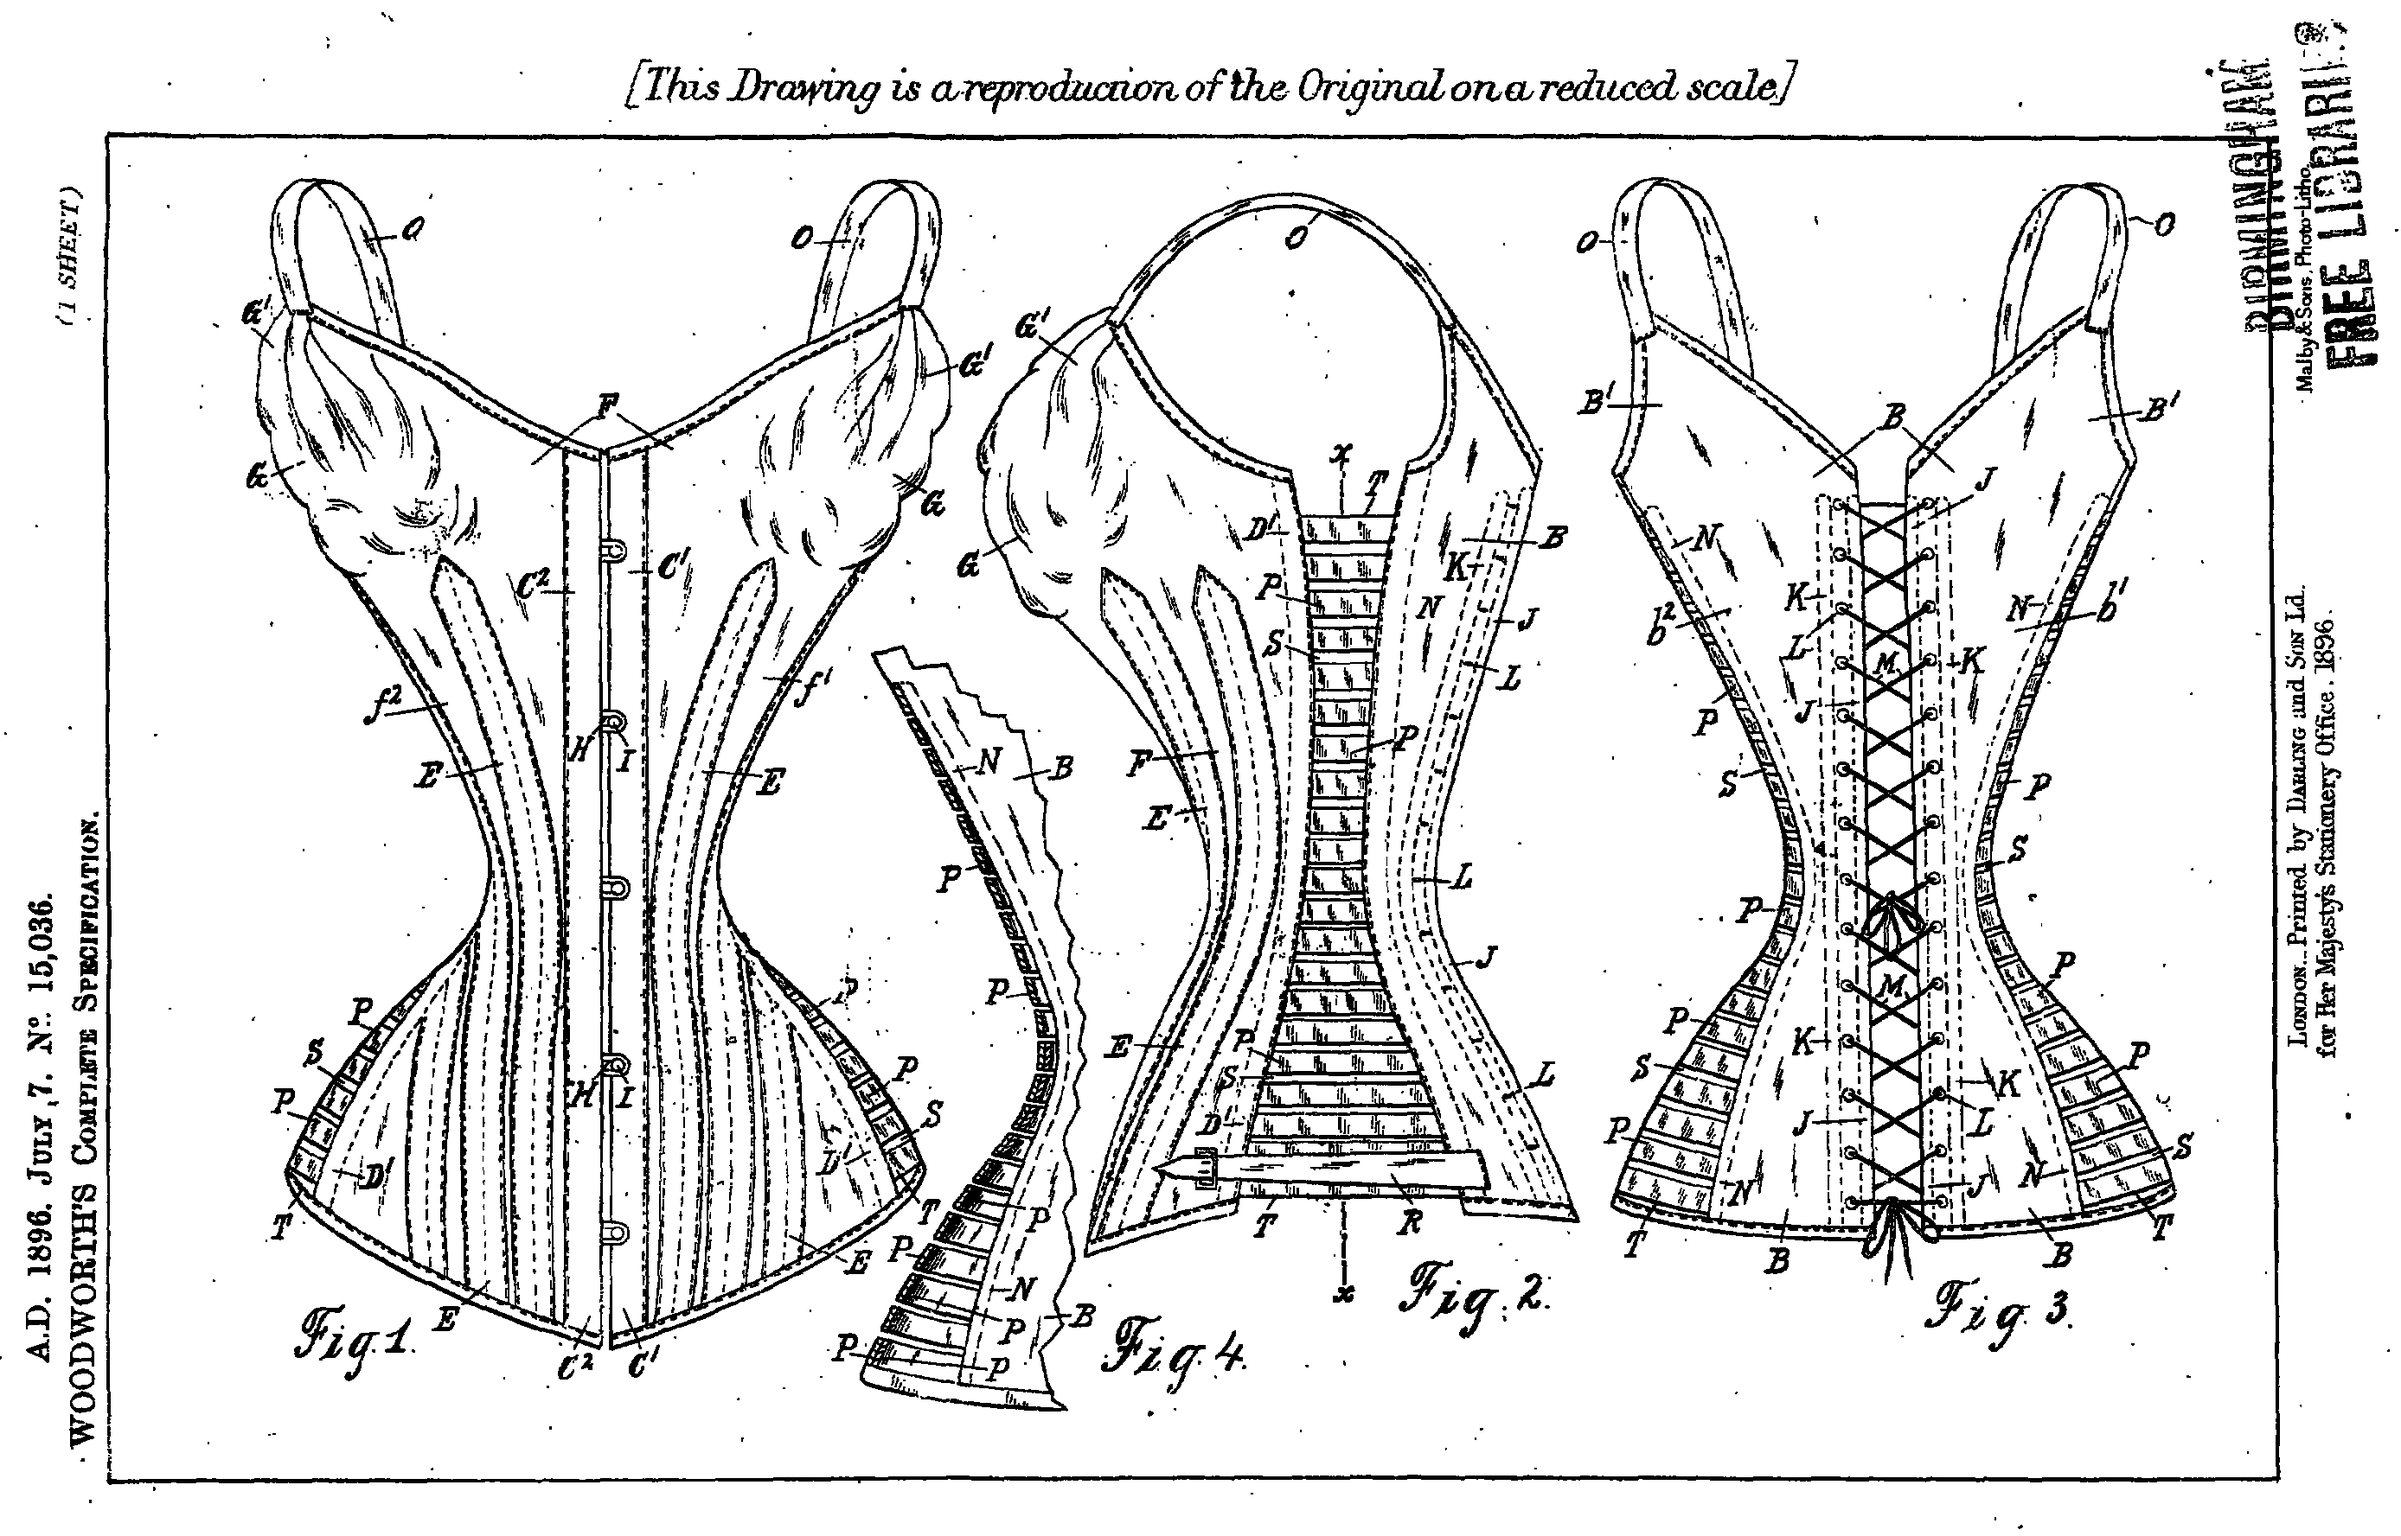
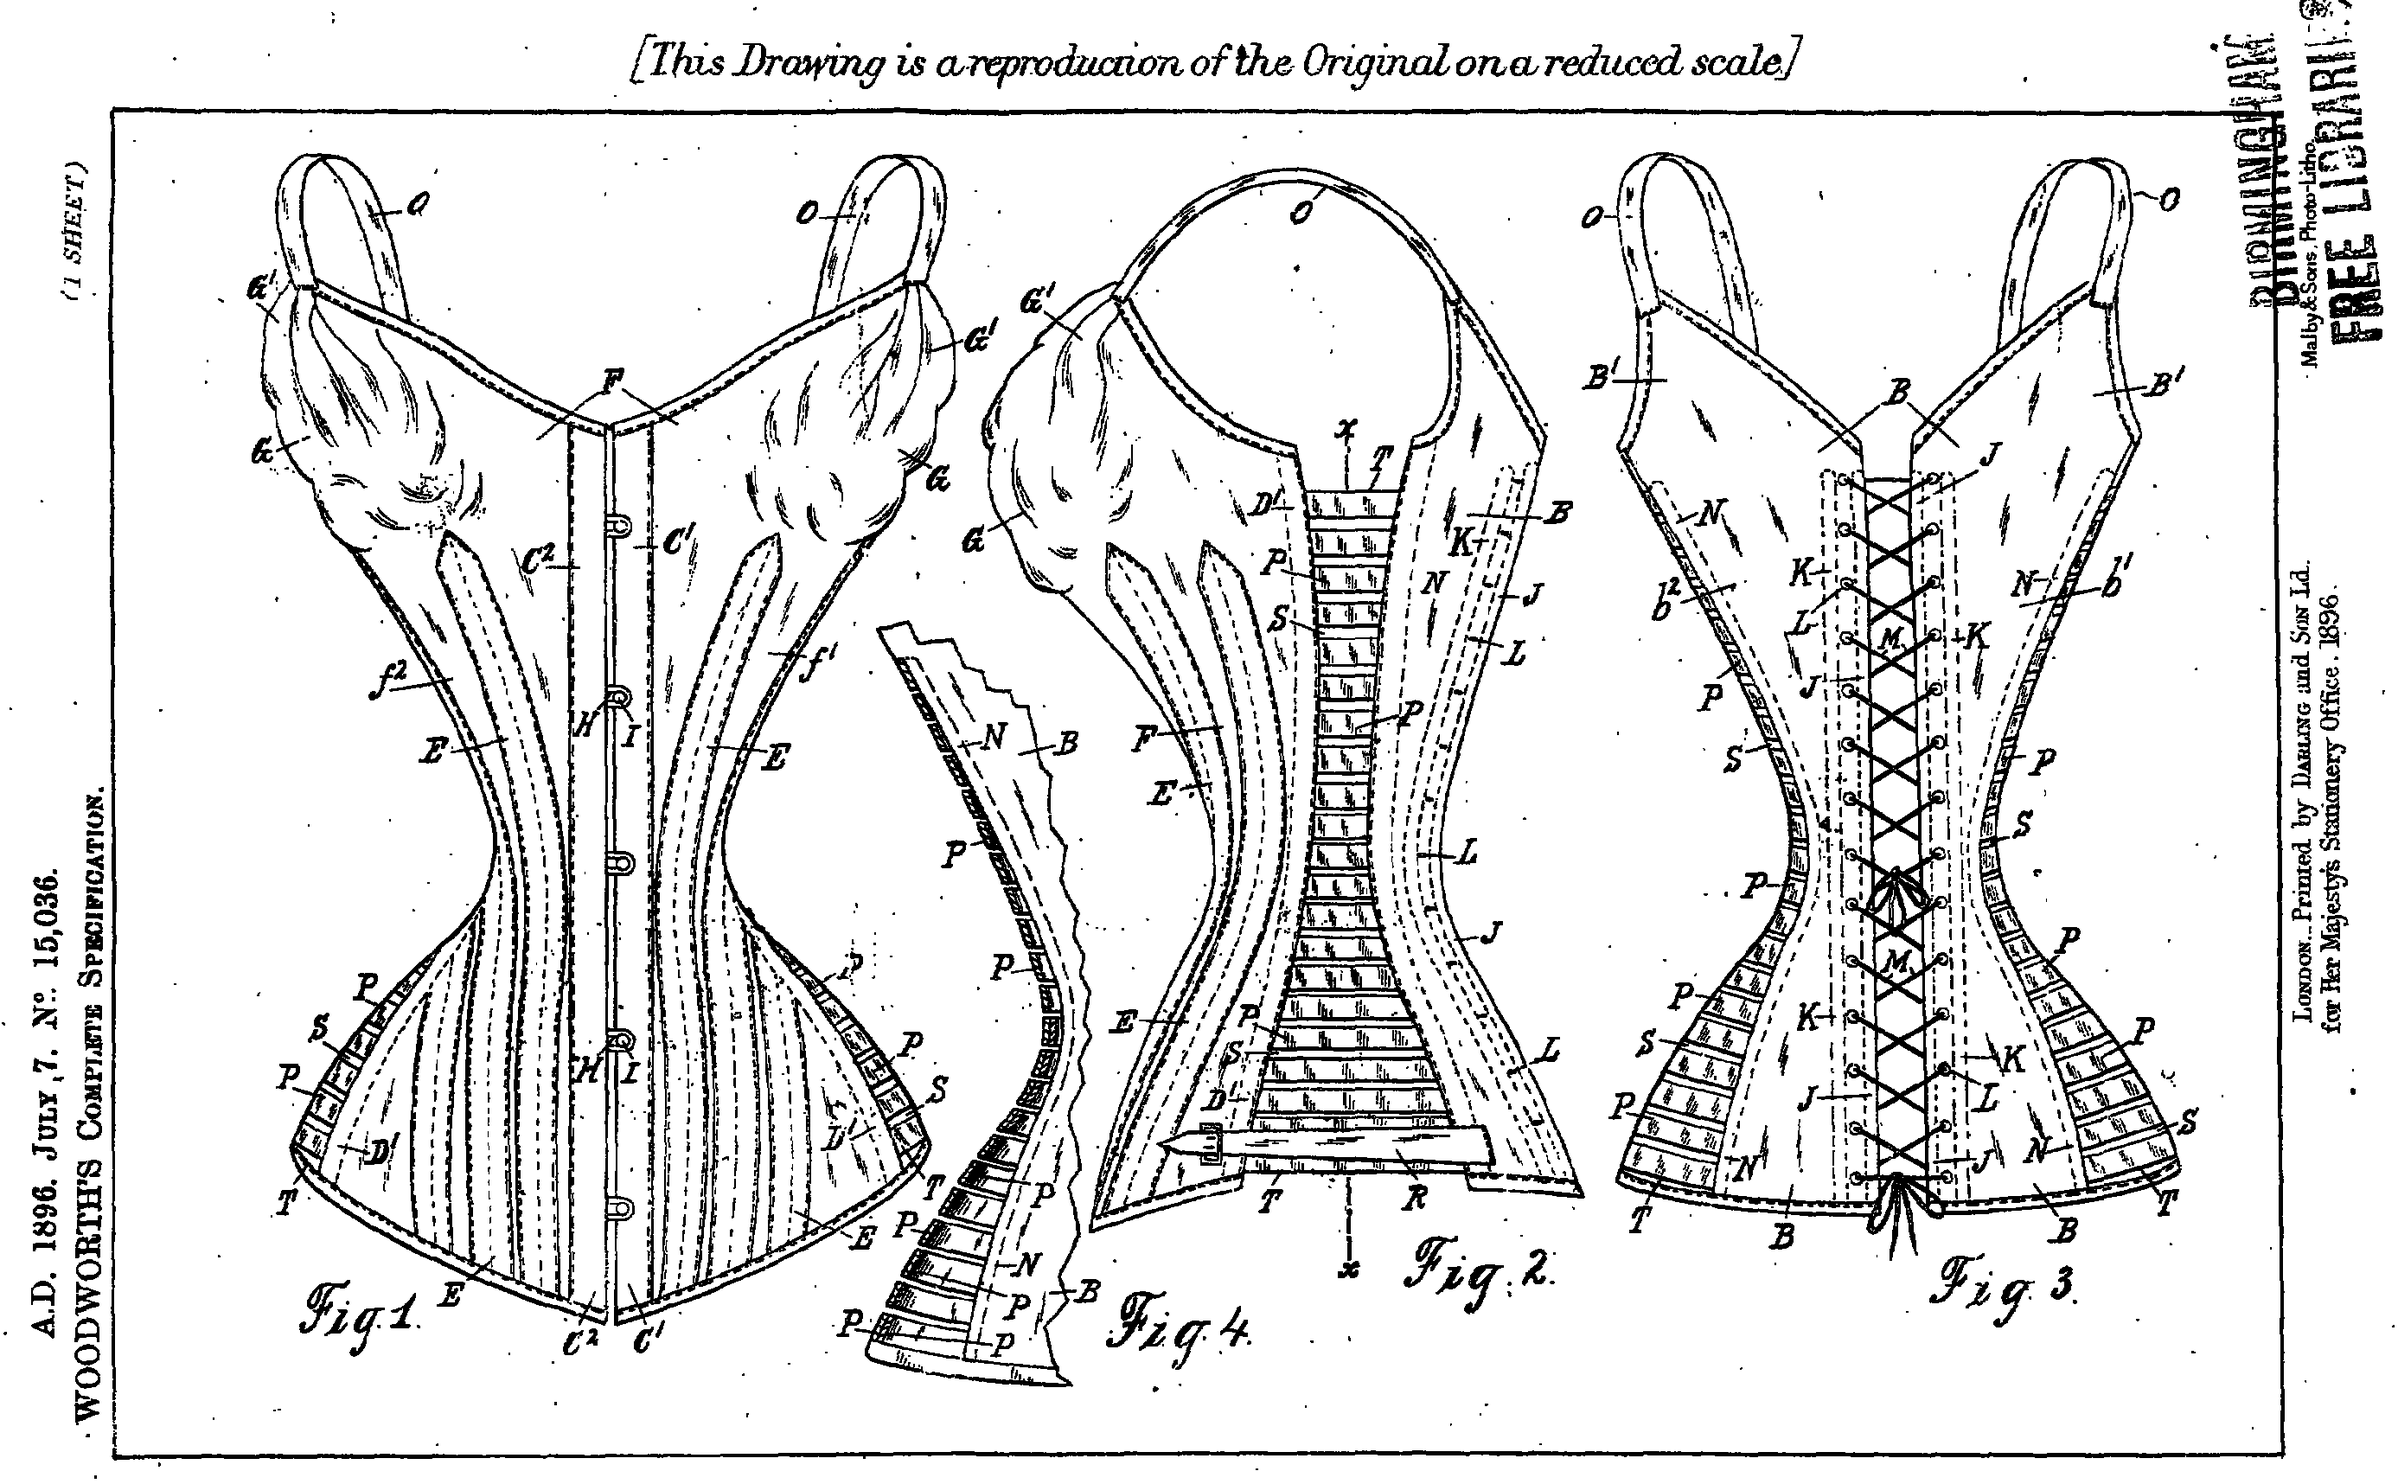
commit

Changed region(s): [[0.0, 0.0, 0.9924, 0.9883]]

diff --git a/content/post/ellen_mary_bell/index.md b/content/post/ellen_mary_bell/index.md
@@ -6,26 +6,26 @@ categories:
 date: "2024-06-20T00:00:00Z"
 featured: true
 image:
-  caption: 'Image credit: [**Woodworth, C.E. (1894)**](https://worldwide.espacenet.com/patent/search/family/032534176/publication/GB189615036A?q=in%3Dclara)'
+  caption: 'Image credit: [**Siebert, A. (1893)**](https://worldwide.espacenet.com/patent/search?q=pn%3DGB189311534A)'
   focal_point: ""
   placement: 2
   preview_only: false
 lastmod: "2024-06-20T00:00:00Z"
 projects: []
-subtitle: "Corset."
+subtitle: "Improvements in Sewing Machines."
 summary: ""
 tags:
-- Other Fields
-- Canada 
-- GB
-title: "Clara E. Woodworth, GB189615036A"
+- Mechanical Engineering
+- Germany 
+- GB 
+title: "Anna Siebert, GB189311534A"
 ---
-On October 24, 1896, Clara Evelyn Woodworth, living in London (Ontario), Canada, was awarded a patent for the design of a novel corset.
+On February 17, 1894, Anna Siebert, a noblewoman living in Darmstadt, Germany, was awarded a patent for improvements to the chain stitch used in a lockstitch sewing machine, which she had been previously registered in 1891.  
 
-Date of Application: 7 July 1896 
+Date of Application: 12 June 1893 
 
-Date of Issuance: 24 October 1896
+Date of Issuance: 17 February 1894
 
 For more information, please refer to the following webpage: 
 
-- [Espacenet](https://worldwide.espacenet.com/patent/search/family/032534176/publication/GB189615036A?q=in%3Dclara)
+- [Espacenet](https://worldwide.espacenet.com/patent/search/family/032118496/publication/GB189311534A?q=pn%3DGB189311534A)

diff --git a/content/post/clara_woodworth/index.md b/content/post/clara_woodworth/index.md
@@ -6,7 +6,7 @@ categories:
 date: "2024-06-20T00:00:00Z"
 featured: true
 image:
-  caption: 'Image credit: [**Bell, E.M. (1894)**](https://worldwide.espacenet.com/patent/search/family/032124054/publication/GB189411304A?q=pn%3DGB189411304A)'
+  caption: 'Image credit: [**Bell, E.M. (1894)**](https://worldwide.espacenet.com/patent/search/family/032534176/publication/GB189615036A?q=in%3Dclara%20evelyn%20woodworth)'
   focal_point: ""
   placement: 2
   preview_only: false
@@ -16,16 +16,16 @@ subtitle: "Corset."
 summary: ""
 tags:
 - Other Fields
-- Great Britain 
+- Canada
 - GB 
-title: "Ellen M. Bell, GB189411304A"
+title: "Clara E. Woodworth, GB189615036A"
 ---
-On November 10, 1894, Ellen Mary Bell, working at Modena College in Peckham, London, was awarded a patent for a novel tablet with spigots suitable for teaching.
+On October 24, 1896, Clara Evelyn Woodworth, living in London (Ontario), Canada, was awarded a patent for designing a novel corset.
 
-Date of Application: 11 June 1894
+Date of Application: 7 July 1896
 
-Date of Issuance: 10 November 1894
+Date of Issuance: 24 October 1896
 
 For more information, please refer to the following webpage: 
 
-- [Espacenet](https://worldwide.espacenet.com/patent/search/family/032124054/publication/GB189411304A?q=pn%3DGB189411304A)
+- [Espacenet](https://worldwide.espacenet.com/patent/search/family/032534176/publication/GB189615036A?q=in%3Dclara%20evelyn%20woodworth)
